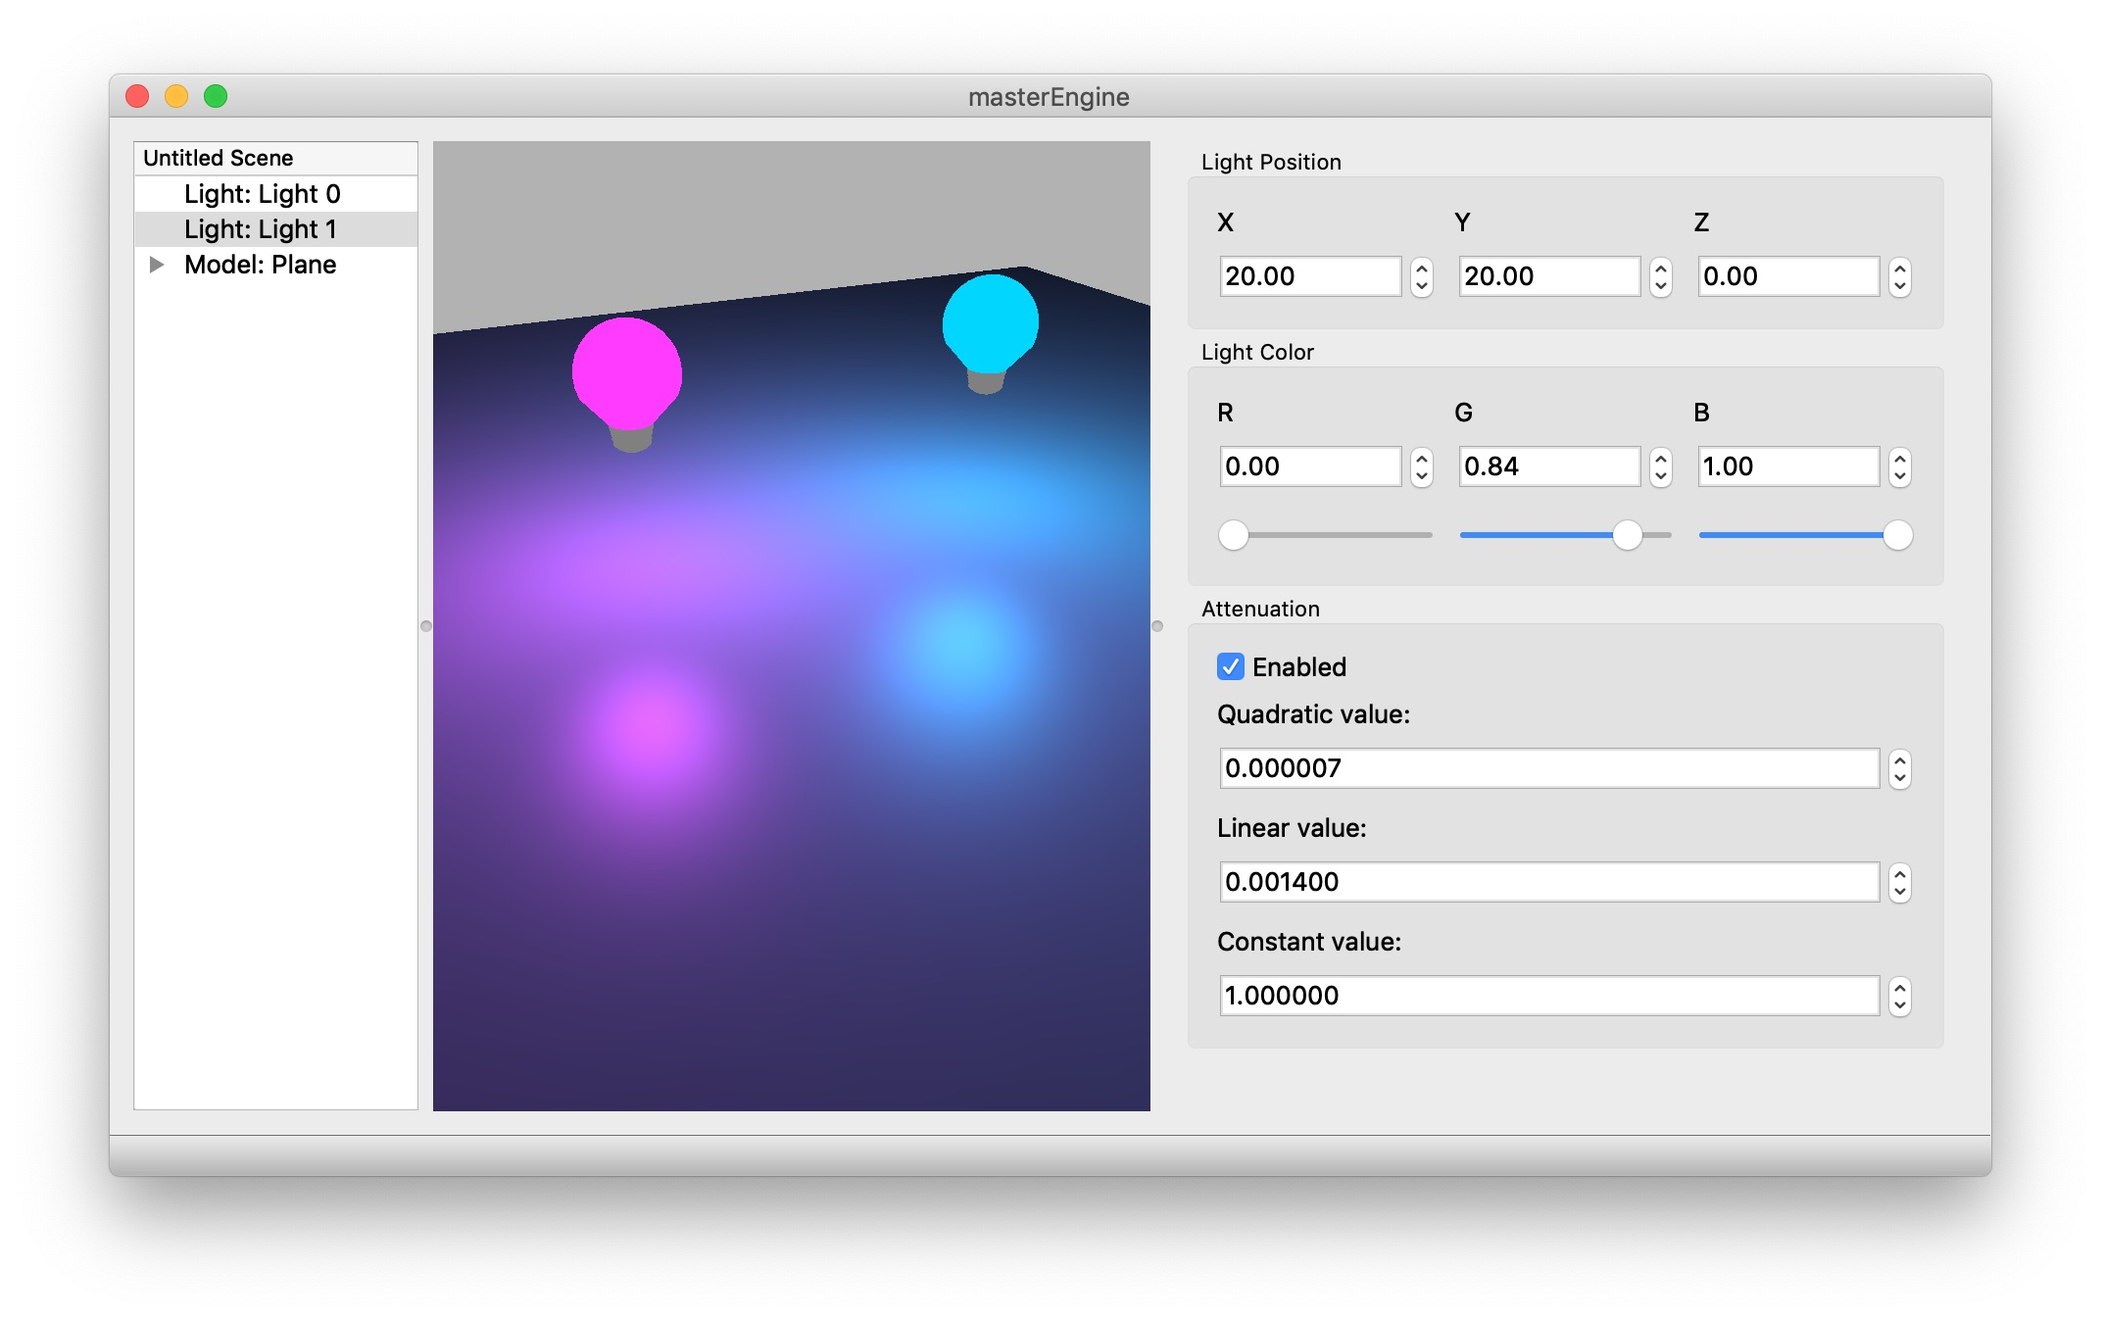
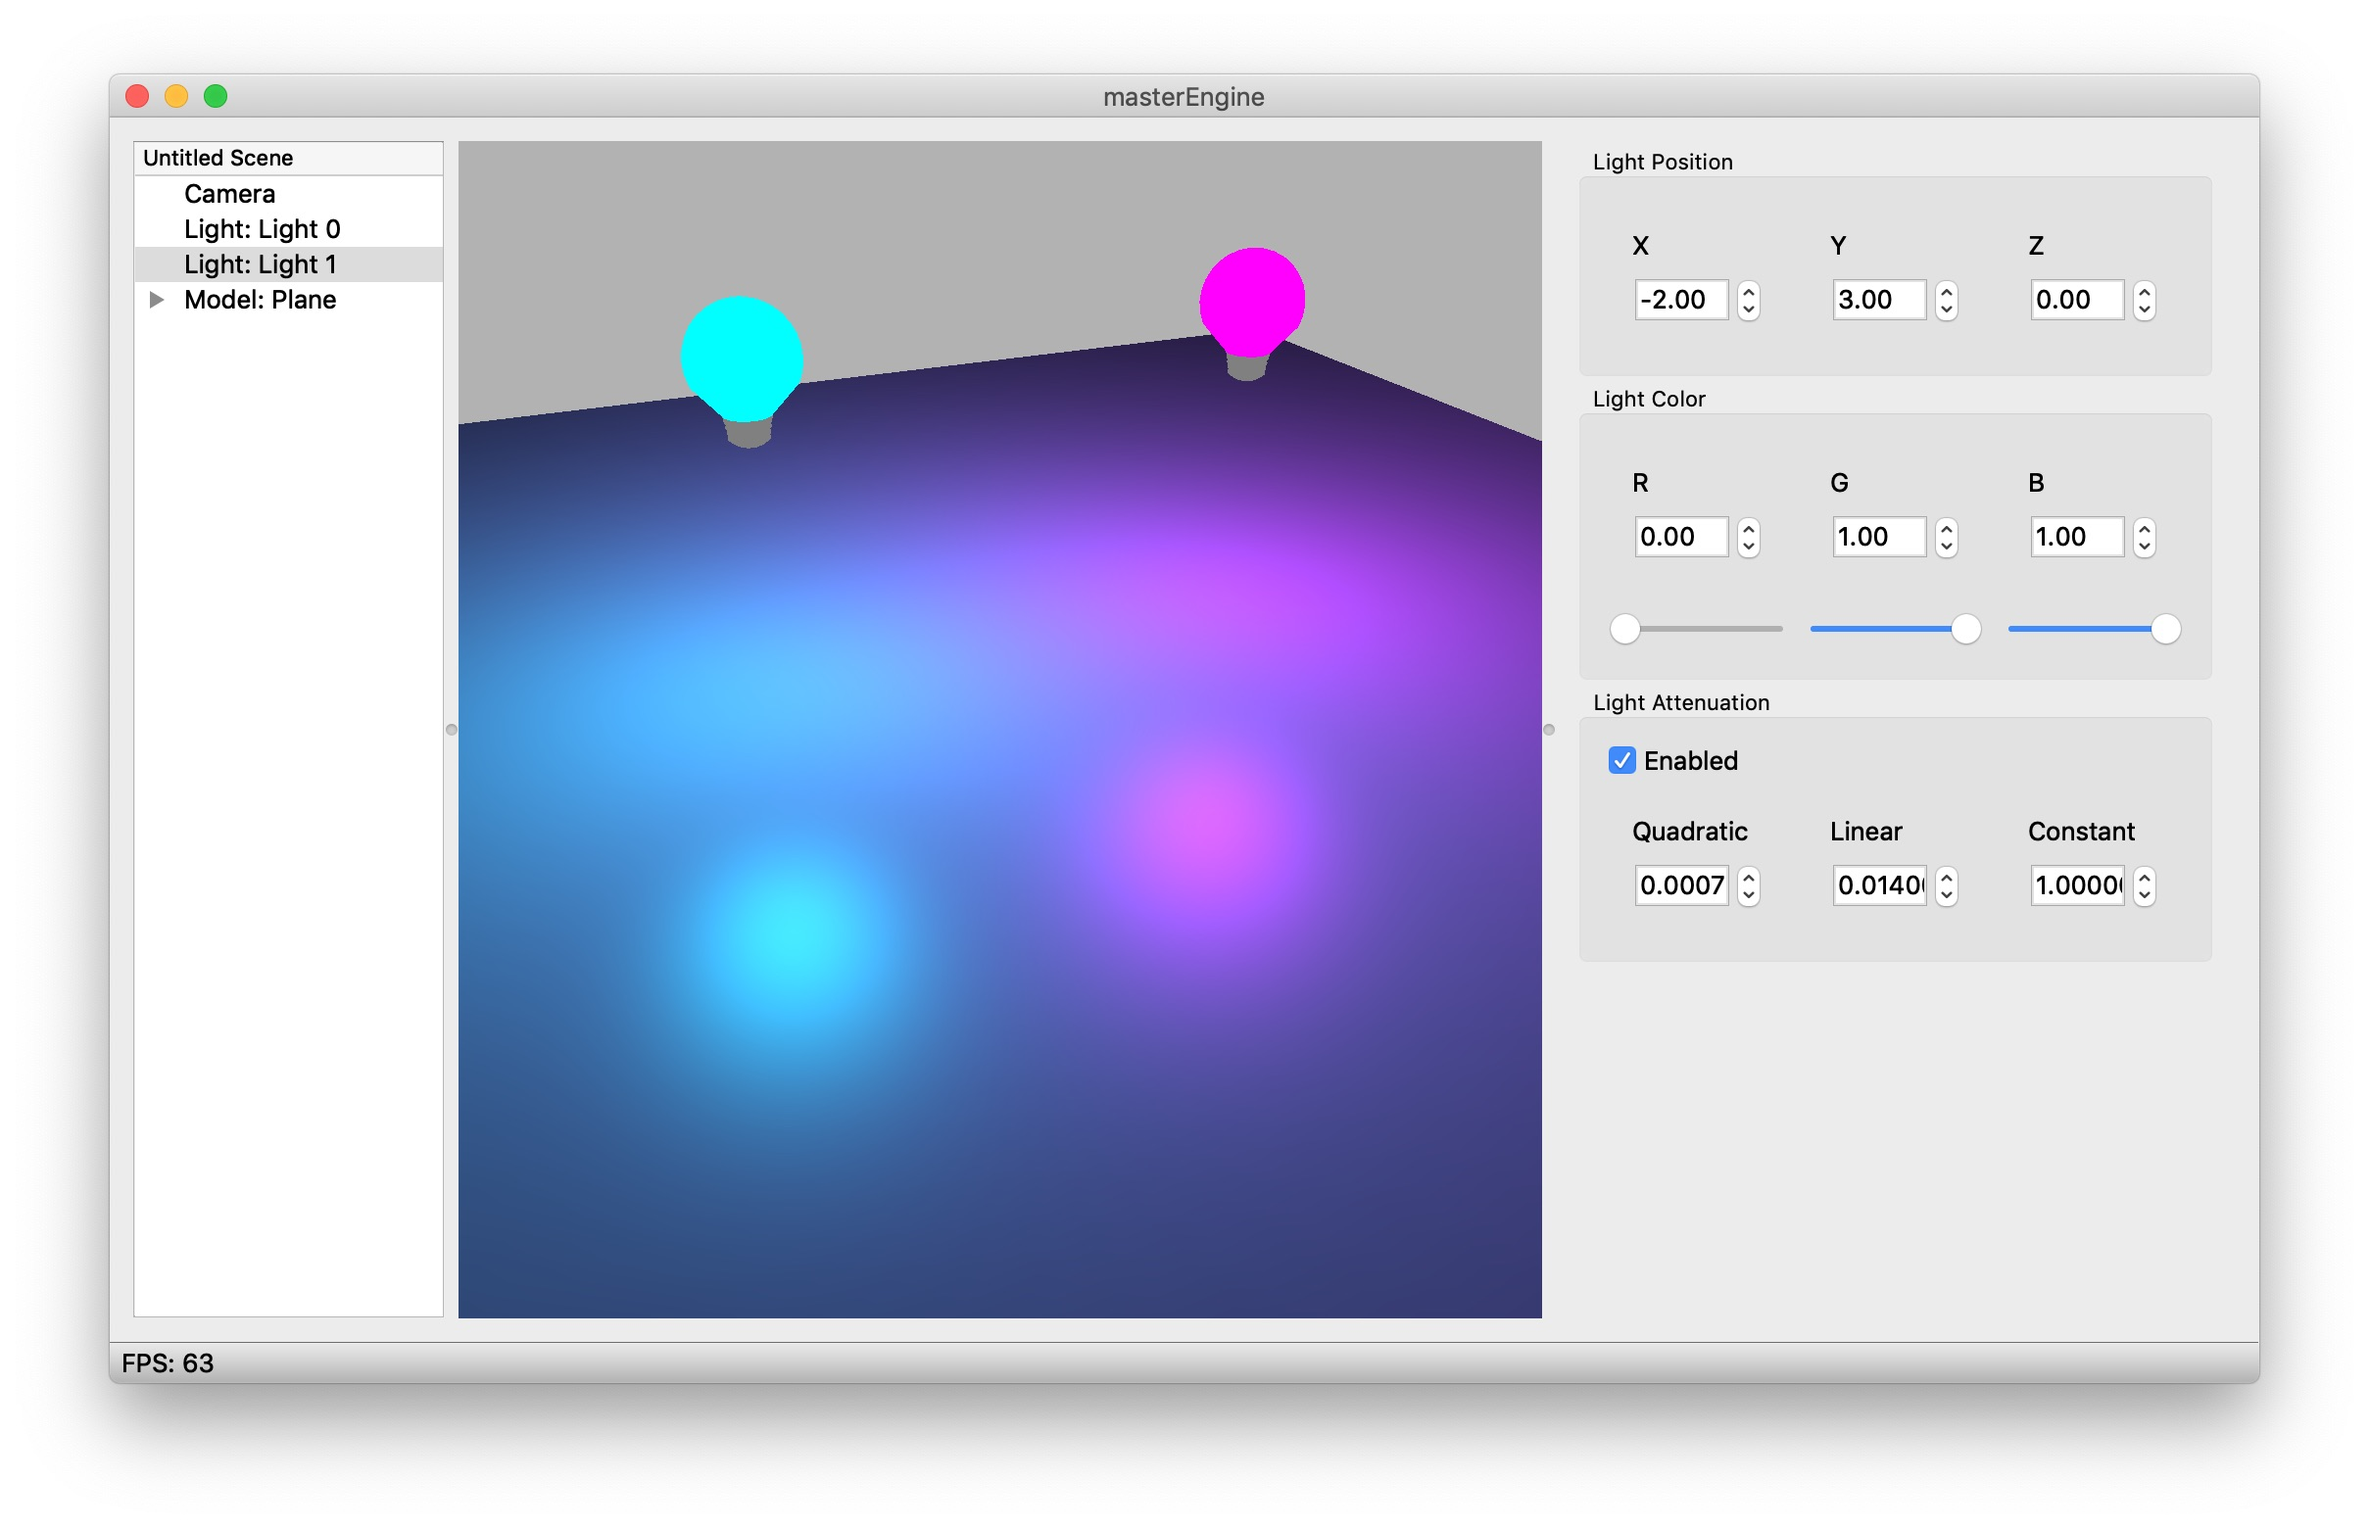
Tue Dec 18 12:07:18 CST 2018

diff --git a/src/UI/CentralWidget/PropertyWidget/ModelPropertyWidget.cpp b/src/UI/CentralWidget/PropertyWidget/ModelPropertyWidget.cpp
@@ -26,7 +26,7 @@ ModelPropertyWidget::ModelPropertyWidget(Model* _model, QWidget *parent): QWidge
 
     resetTransformationButton = new QPushButton("Reset Transformation", this);
     resetTransformationButton->setFixedWidth(240);
-    resetChildrenTransformationButton = new QPushButton("Reset Children's Tranformation", this);
+    resetChildrenTransformationButton = new QPushButton("Reset Children's Transformations", this);
     resetChildrenTransformationButton->setFixedWidth(240);
 
     setupLayout();

diff --git a/src/Generic/Light.cpp b/src/Generic/Light.cpp
@@ -9,8 +9,8 @@ Light::Light(QVector3D _position, QObject * parent): QObject(parent) {
     setColor(QVector3D(1.0f, 1.0f, 1.0f));
     setPosition(_position);
     setEnableAttenuation(true);
-    setAttenuationQuadratic(0.000007f);
-    setAttenuationLinear(0.0014f);
+    setAttenuationQuadratic(0.0007f);
+    setAttenuationLinear(0.014f);
     setAttenuationConstant(1.0f);
 }
 

diff --git a/include/UI/CentralWidget/PropertyWidget/FloatEditWidget.h b/include/UI/CentralWidget/PropertyWidget/FloatEditWidget.h
@@ -6,7 +6,7 @@ class FloatEditWidget: public QWidget {
     Q_OBJECT
 
 public:
-    FloatEditWidget(QString labelText, bool vertical, QWidget* parent = Q_NULLPTR);
+    FloatEditWidget(QString labelText, bool vertical, QWidget* parent = 0);
     ~FloatEditWidget();
 
     void setLabelText(QString text);

diff --git a/include/UI/CentralWidget/PropertyWidget/StringEditWidget.h b/include/UI/CentralWidget/PropertyWidget/StringEditWidget.h
@@ -6,7 +6,7 @@ class StringEditWidget: public QWidget {
     Q_OBJECT
 
 public:
-    StringEditWidget(QString labelText, QWidget* parent = Q_NULLPTR);
+    StringEditWidget(QString labelText, QWidget* parent = 0);
     ~StringEditWidget();
 
     void setLabelText(QString text);

diff --git a/include/UI/CentralWidget/PropertyWidget/MaterialPropertyWidget.h b/include/UI/CentralWidget/PropertyWidget/MaterialPropertyWidget.h
@@ -7,7 +7,7 @@ class MaterialPropertyWidget: public QWidget {
     Q_OBJECT
 
 public:
-    MaterialPropertyWidget(Material* material, QWidget *parent = Q_NULLPTR);
+    MaterialPropertyWidget(Material* material, QWidget *parent = 0);
     ~MaterialPropertyWidget();
 
 private:

diff --git a/include/UI/CentralWidget/PropertyWidget/TexturePropertyWidget.h b/include/UI/CentralWidget/PropertyWidget/TexturePropertyWidget.h
@@ -7,7 +7,7 @@ class TexturePropertyWidget: public QWidget {
     Q_OBJECT
 
 public:
-    TexturePropertyWidget(Texture* texture, QWidget *parent = Q_NULLPTR);
+    TexturePropertyWidget(Texture* texture, QWidget *parent = 0);
     ~TexturePropertyWidget();
 
 private:

diff --git a/include/UI/CentralWidget/OpenGLWidget.h b/include/UI/CentralWidget/OpenGLWidget.h
@@ -8,7 +8,7 @@ class OpenGLWidget: public QOpenGLWidget, protected QOpenGLFunctions {
     Q_OBJECT
 
 public:
-    OpenGLWidget(QWidget * parent = Q_NULLPTR);
+    OpenGLWidget(QWidget * parent = 0);
     ~OpenGLWidget();
     void setFPSLimit(uint32_t limit);
 

diff --git a/include/UI/CentralWidget/PropertyWidget/CameraPropertyWidget.h b/include/UI/CentralWidget/PropertyWidget/CameraPropertyWidget.h
@@ -9,7 +9,7 @@ class CameraPropertyWidget: public QWidget {
     Q_OBJECT
 
 public:
-    CameraPropertyWidget(Camera* camera, QWidget *parent = Q_NULLPTR);
+    CameraPropertyWidget(Camera* camera, QWidget *parent = 0);
     ~CameraPropertyWidget();
 
 private:

diff --git a/include/Generic/Light.h b/include/Generic/Light.h
@@ -7,7 +7,7 @@ class Light: public QObject {
     Q_OBJECT
 
 public:
-    Light(QVector3D position = QVector3D(), QObject * parent = Q_NULLPTR);
+    Light(QVector3D position = QVector3D(), QObject * parent = 0);
     ~Light();
 
     QVector3D getColor();

diff --git a/include/UI/CentralWidget/PropertyWidget/LightPropertyWidget.h b/include/UI/CentralWidget/PropertyWidget/LightPropertyWidget.h
@@ -8,7 +8,7 @@ class LightPropertyWidget: public QWidget {
     Q_OBJECT
 
 public:
-    LightPropertyWidget(Light* light, QWidget *parent = Q_NULLPTR);
+    LightPropertyWidget(Light* light, QWidget *parent = 0);
     ~LightPropertyWidget();
 
 private:

diff --git a/include/UI/MainWindow.h b/include/UI/MainWindow.h
@@ -7,7 +7,7 @@ class MainWindow: public QMainWindow {
     Q_OBJECT
 
 public:
-    MainWindow(QWidget *parent = Q_NULLPTR);
+    MainWindow(QWidget *parent = 0);
     ~MainWindow();
 
     friend class MainMenuBar;
